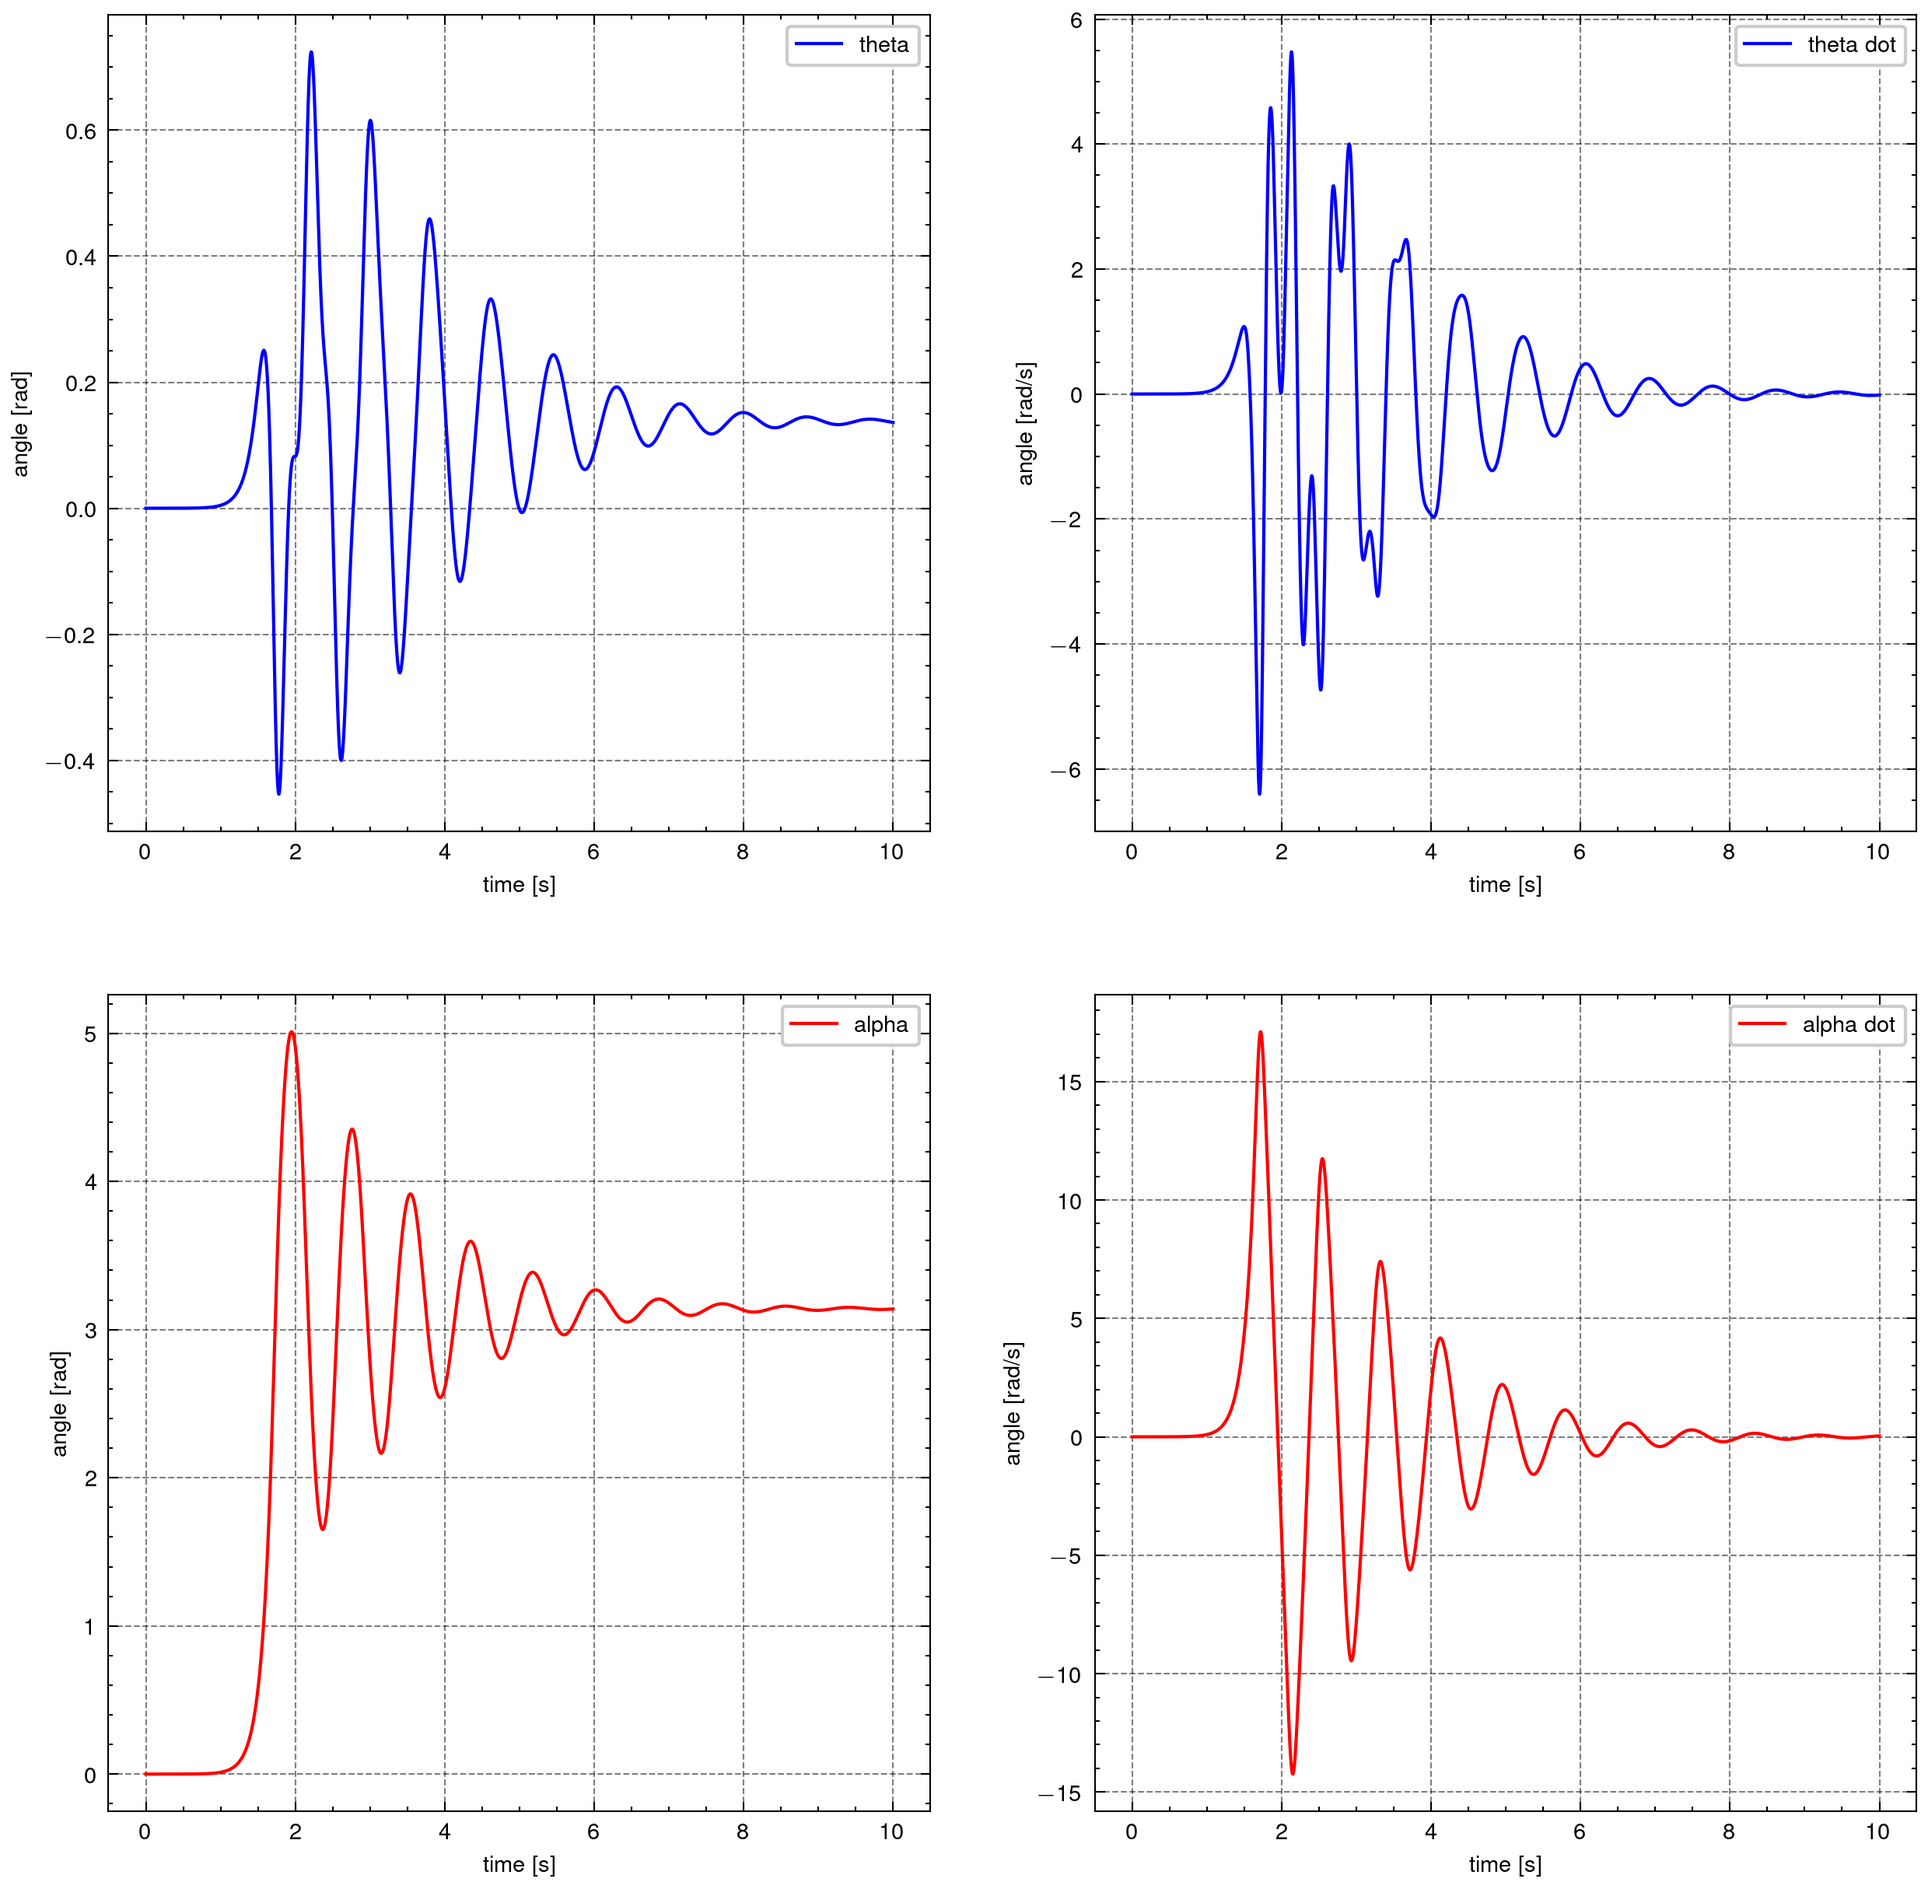
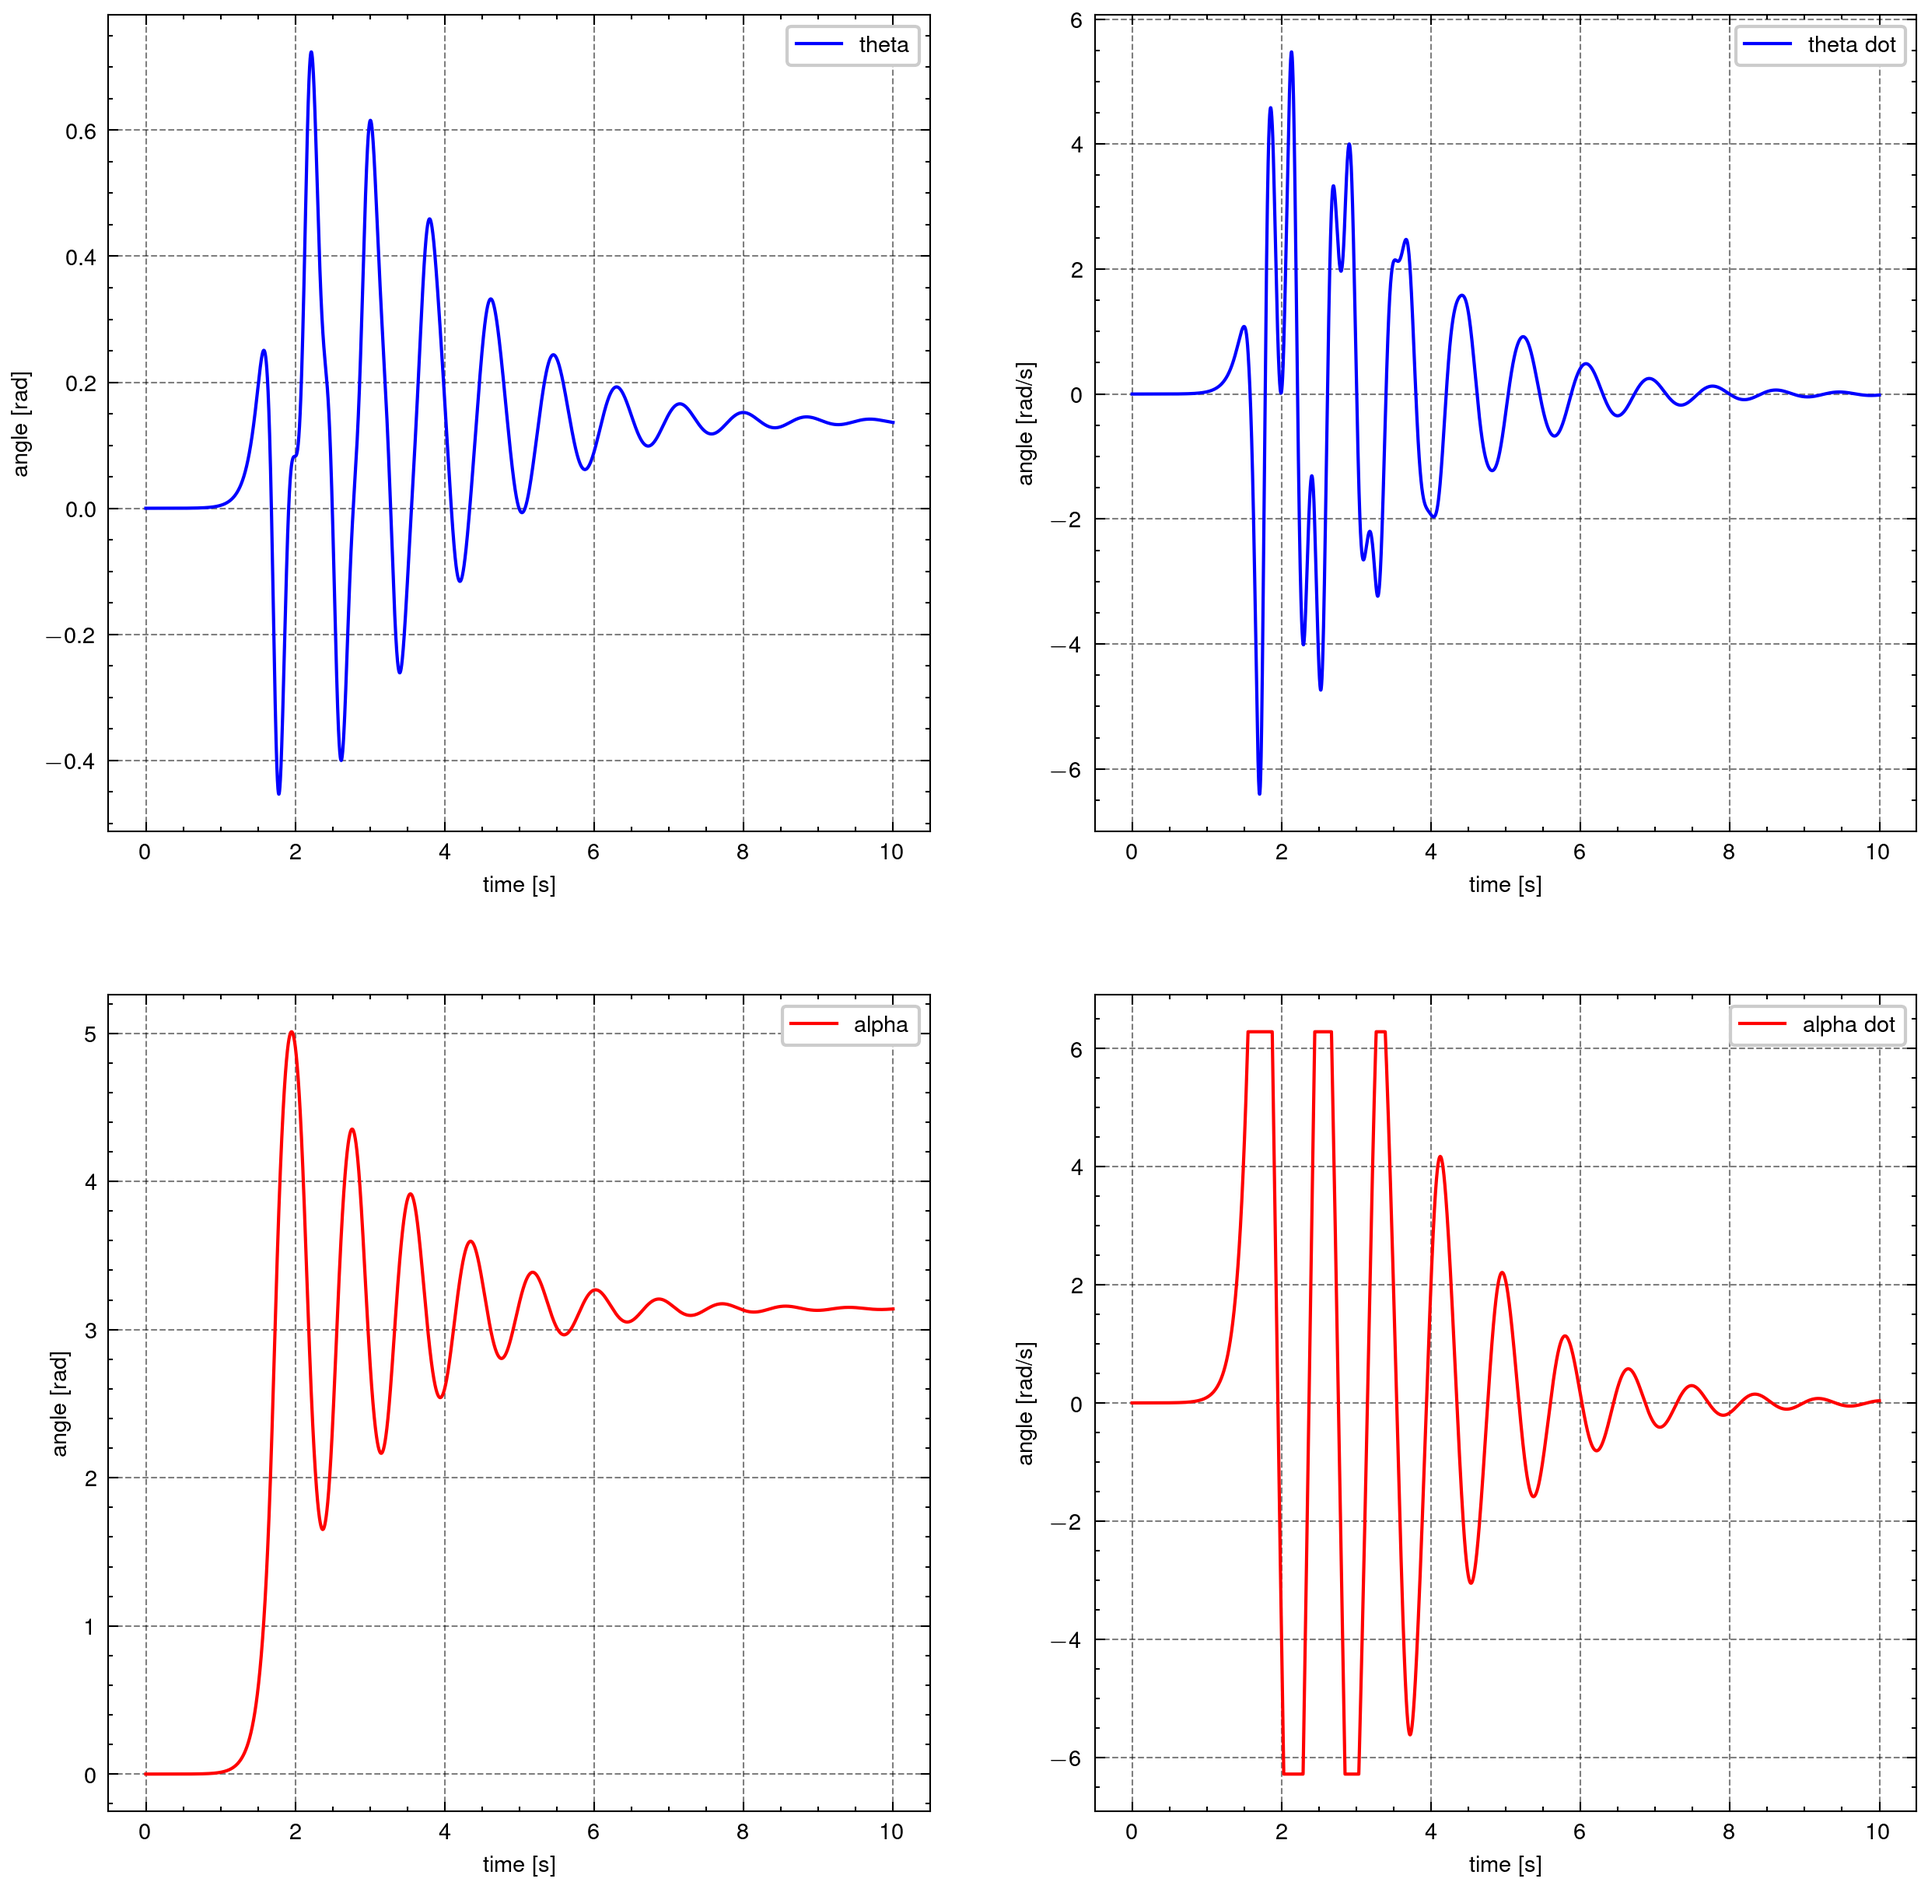
.

Changed region(s): [[0.5902, 0.5249, 0.9629, 0.9572], [0.528, 0.7102, 0.5591, 0.7719]]

diff --git a/main.py b/main.py
@@ -101,7 +101,7 @@ u = np.array([
 
 for i in range(1, samples):
   alpha = alpha_values[i - 1, 0]
-  alpha_dot = np.clip(alpha_values[i - 1, 1], z3_min, z3_max)
+  alpha_dot = alpha_values[i - 1, 1]
 
   # calculating the pertinence functions activation values
 
@@ -132,7 +132,7 @@ for i in range(1, samples):
   x += delta_system * simulation_step
 
   theta_values[i] = np.array([x[0], x[2]]).T
-  alpha_values[i] = np.array([x[1], x[3]]).T
+  alpha_values[i] = np.array([x[1], np.clip(x[3], z3_min, z3_max)]).T
 
 fig1, axs = plt.subplots(2, 2, figsize=(10, 10))
 
